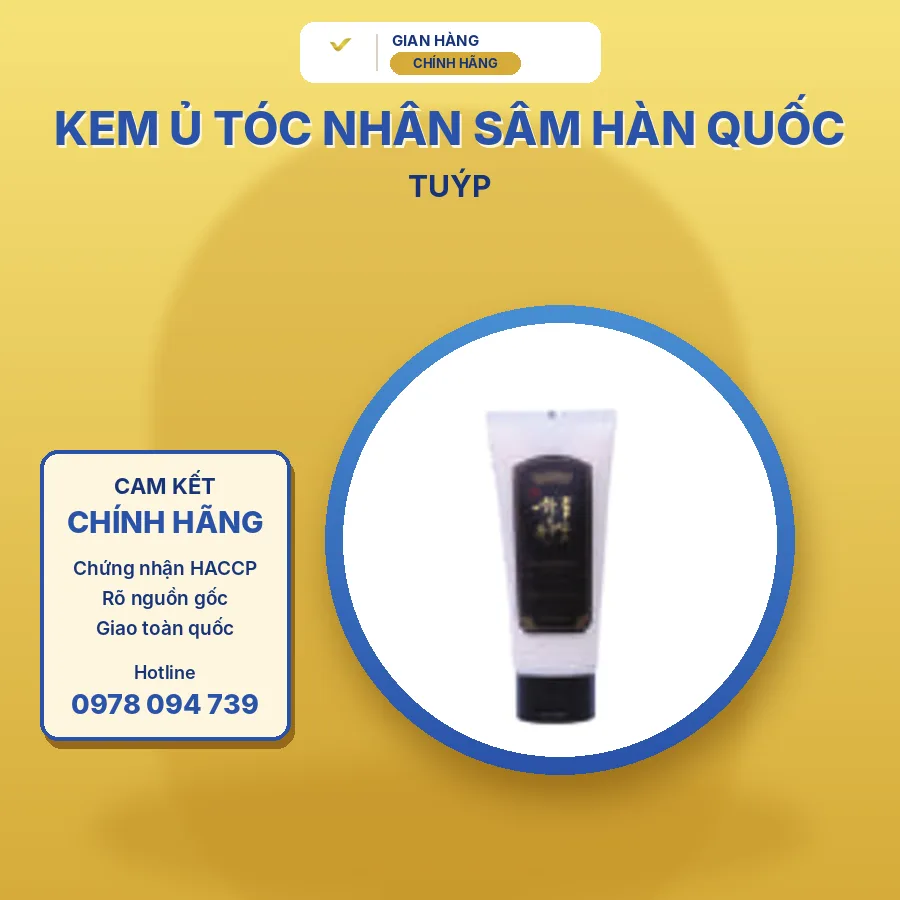
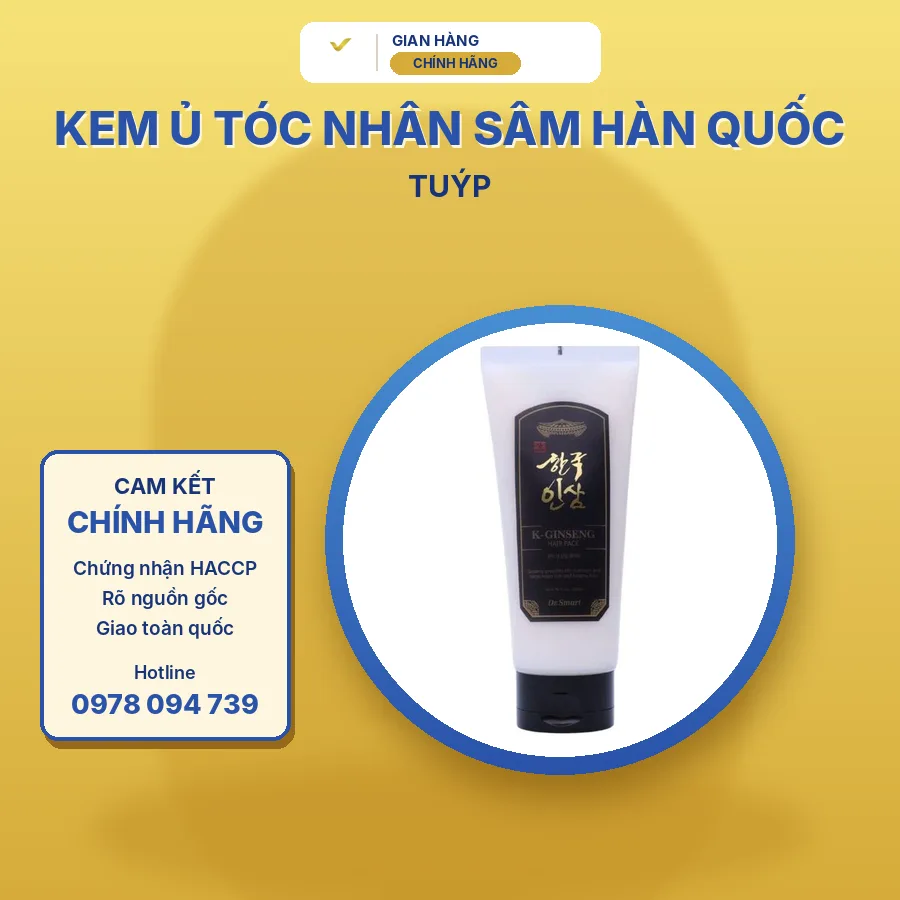
Thay ảnh mỹ phẩm T'Beauty và K-Ginseng bằng ảnh gốc nét
Claude-Session: https://claude.ai/code/session_01CMvDmacd6zmATooh7Uv4AQ

Changed region(s): [[0.5289, 0.3733, 0.7156, 0.84]]

diff --git a/index.html b/index.html
@@ -694,18 +694,18 @@ const IMG = {
   228: ["khung/228.jpg", "that/xa-bong-hoa-xoai.jpg"],
   229: ["khung/229.jpg", "catalog/xa-bong-hoa-bong-buoi.jpg"],
   230: ["khung/230.jpg", "that/xa-bong-hoa-ca-phe.jpg"],
-  231: ["khung/231.jpg", "catalog/nuoc-tay-trang.jpg"],
-  232: ["khung/232.jpg", "catalog/sua-rua-mat.jpg"],
-  233: ["khung/233.jpg", "catalog/toner.jpg"],
-  234: ["khung/234.jpg", "catalog/serum-trang-da-giam-nep-nhan.jpg"],
-  235: ["khung/235.jpg", "catalog/kem-duong-am-trang-da.jpg"],
-  236: ["khung/236.jpg", "catalog/gel-tay-da-chet.jpg"],
-  237: ["khung/237.jpg", "catalog/kem-chong-nang.jpg"],
-  238: ["khung/238.jpg", "catalog/mat-na.jpg"],
-  239: ["khung/239.jpg", "catalog/dau-goi-nhan-sam-han-quoc.jpg"],
-  240: ["khung/240.jpg", "catalog/tinh-chat-duong-toc-nhan-sam-han-quoc.jpg"],
-  241: ["khung/241.jpg", "catalog/kem-u-toc-nhan-sam-han-quoc.jpg"],
-  242: ["khung/242.jpg", "catalog/mat-na-hong-nau-xanh.jpg"],
+  231: ["khung/231.jpg", "that/tbeauty-nuoc-tay-trang.jpg"],
+  232: ["khung/232.jpg", "that/tbeauty-sua-rua-mat.jpg"],
+  233: ["khung/233.jpg", "that/tbeauty-toner.jpg"],
+  234: ["khung/234.jpg", "that/tbeauty-serum.jpg"],
+  235: ["khung/235.jpg", "that/tbeauty-kem-duong-am.jpg"],
+  236: ["khung/236.jpg", "that/tbeauty-gel-tay-te-bao-chet.jpg"],
+  237: ["khung/237.jpg", "that/tbeauty-kem-chong-nang.jpg"],
+  238: ["khung/238.jpg", "that/tbeauty-mat-na-yen-4-loai.jpg", "that/tbeauty-mat-na-repair-glow.jpg", "that/tbeauty-mat-na-firming-lift.jpg", "that/tbeauty-mat-na-soothing-moist.jpg", "that/tbeauty-mat-na-deep-hydration.jpg", "that/tbeauty-mat-na-soothing-moist-2.jpg", "that/tbeauty-mat-na-deep-hydration-2.jpg", "that/tbeauty-mat-na-repair-glow-2.jpg", "that/tbeauty-mat-na-firming-lift-2.jpg"],
+  239: ["khung/239.jpg", "that/tbeauty-dau-goi-k-ginseng.jpg"],
+  240: ["khung/240.jpg", "that/tbeauty-tinh-chat-duong-toc-k-ginseng.jpg"],
+  241: ["khung/241.jpg", "that/tbeauty-kem-u-toc-k-ginseng.jpg"],
+  242: ["khung/242.jpg", "that/tbeauty-mat-na-queen-xanh.jpg", "that/tbeauty-mat-na-queen-nau.jpg", "that/tbeauty-mat-na-queen-hong.jpg", "that/tbeauty-mat-na-queen-xanh-hop.jpg", "that/tbeauty-mat-na-queen-nau-hop.jpg", "that/tbeauty-mat-na-queen-hong-hop.jpg", "that/tbeauty-mat-na-queen-xanh-hop-2.jpg", "that/tbeauty-mat-na-queen-nau-hop-2.jpg", "that/tbeauty-mat-na-queen-hong-hop-2.jpg"],
   243: ["khung/243.jpg", "catalog/dau-goi-trai-nhau.jpg"],
   244: ["khung/244.jpg", "catalog/xa-bong-giam-mun.jpg"],
   245: ["khung/245.jpg", "catalog/nuoc-rua-tay-kho.jpg"],
@@ -724,7 +724,7 @@ const SETS = [
 const HET_HANG = [];
 const DIR = "images/san-pham/";
 // Đổi số phiên bản khi thay ảnh catalog để trình duyệt tải ảnh mới thay vì ảnh cũ đã lưu.
-const IMG_V = "?v=24";
+const IMG_V = "?v=25";
 // Ảnh hiển thị dùng bản WebP (nhẹ hơn ~40%); bản .jpg gốc giữ lại cho dữ liệu SEO và chia sẻ.
 const webp = f => f.replace(/\.jpg$/, ".webp");
 const full = f => DIR + webp(f) + (/^(catalog|that|khung|tet)\//.test(f) ? IMG_V : "");
